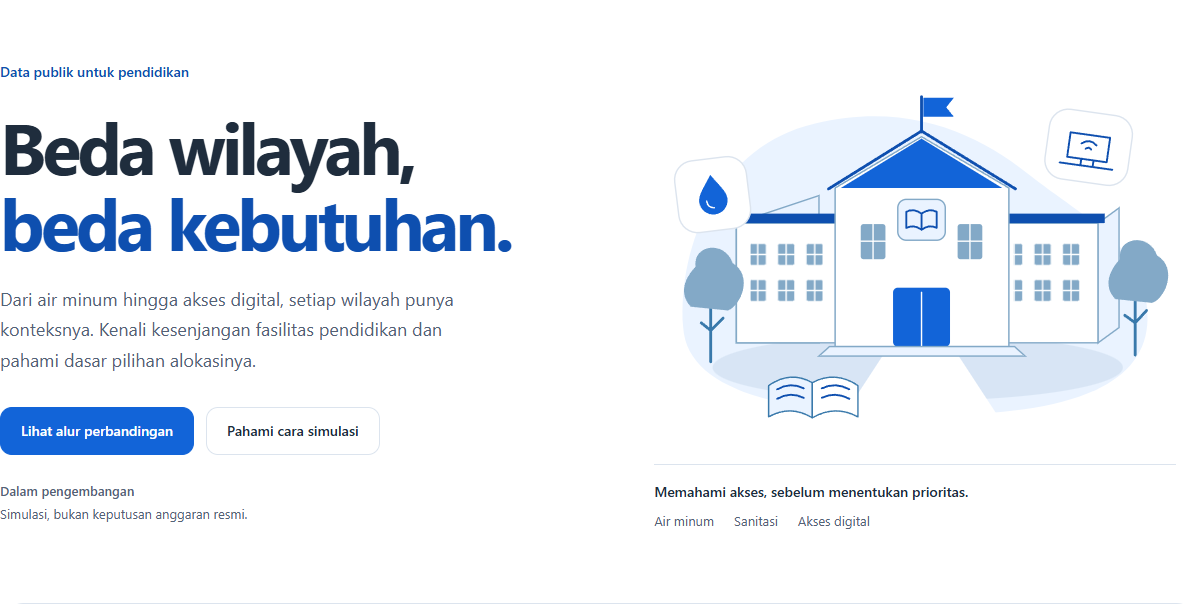
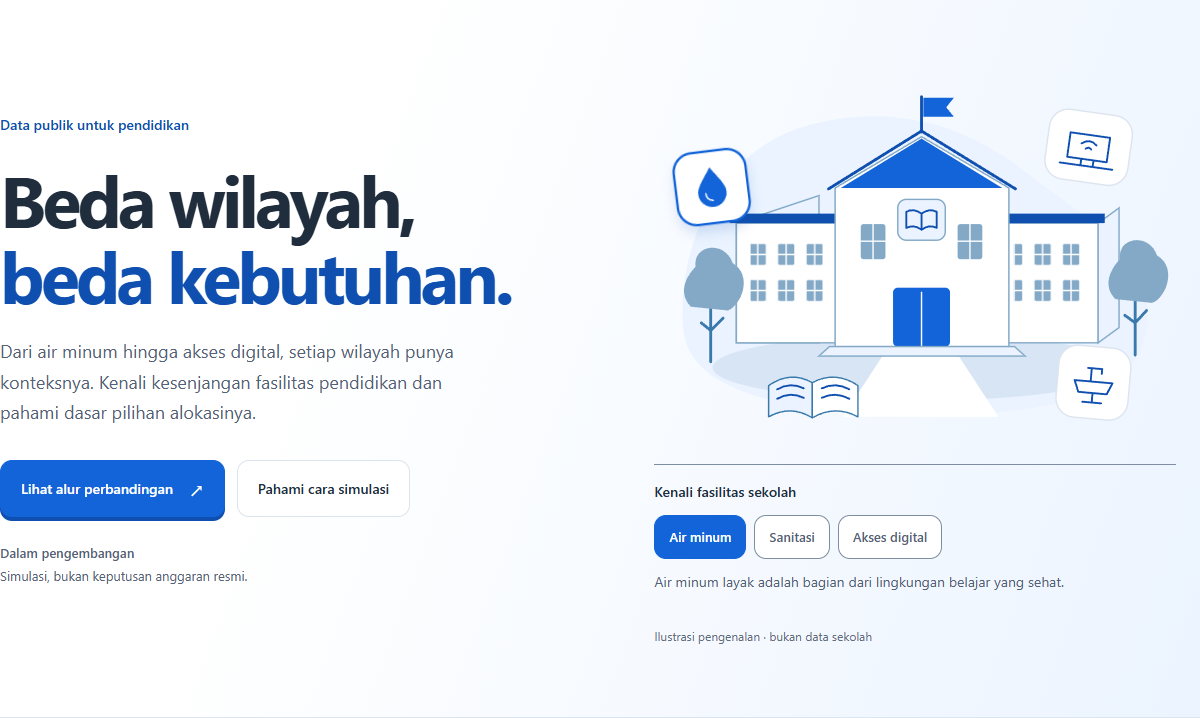
feat(web): add blue hero atmosphere and facility interaction

diff --git a/frontend/src/routes/+page.svelte b/frontend/src/routes/+page.svelte
@@ -4,6 +4,12 @@
   import EducationScene from '#lib/components/EducationScene.svelte';
 
   let view = $state<'access' | 'allocation'>('access');
+  let facility = $state<'water' | 'sanitation' | 'digital'>('water');
+  const heroFacilities = [
+    { id: 'water', label: 'Air minum', description: 'Air minum layak adalah bagian dari lingkungan belajar yang sehat.' },
+    { id: 'sanitation', label: 'Sanitasi', description: 'Sanitasi dasar mendukung kenyamanan dan kebersihan di sekolah.' },
+    { id: 'digital', label: 'Akses digital', description: 'Internet dan komputer membuka akses pada sumber belajar digital.' }
+  ] as const;
   const facilities = [
     { name: 'Sanitasi dasar', measure: 'Persentase sekolah dengan akses', note: 'Bandingkan pada tahun dan jenjang yang sama.' },
     { name: 'Air minum layak', measure: 'Persentase sekolah dengan akses', note: 'Periksa definisi akses dan cakupan wilayah.' },
@@ -29,22 +35,33 @@
   { label: 'Metode & batasan', href: '#metode' },
   { label: 'Tentang Equora', href: '/about' }
 ]}>
+  <div class="hero-backdrop">
   <section class="eq-container hero" aria-labelledby="hero-title">
     <div class="hero-copy">
       <p class="eq-kicker">Data publik untuk pendidikan</p>
       <h1 id="hero-title">Beda wilayah,<br /><span>beda kebutuhan.</span></h1>
       <p class="intro">Dari air minum hingga akses digital, setiap wilayah punya konteksnya. Kenali kesenjangan fasilitas pendidikan dan pahami dasar pilihan alokasinya.</p>
       <div class="actions">
-        <a class="eq-button eq-button-primary" href="#pratinjau">Lihat alur perbandingan</a>
+        <a class="eq-button eq-button-primary hero-primary" href="#pratinjau">Lihat alur perbandingan <span aria-hidden="true">↗</span></a>
         <a class="eq-button" href="#metode">Pahami cara simulasi</a>
       </div>
       <p class="hero-note"><span class="development-label">Dalam pengembangan</span><br />Simulasi, bukan keputusan anggaran resmi.</p>
     </div>
     <figure class="education-visual">
-      <div class="education-scene"><EducationScene /></div>
-      <figcaption><p>Memahami akses, sebelum menentukan prioritas.</p><div class="facility-topics"><span>Air minum</span><span>Sanitasi</span><span>Akses digital</span></div></figcaption>
+      <div class="education-scene"><EducationScene selected={facility} /></div>
+      <figcaption>
+        <p class="scene-label">Kenali fasilitas sekolah</p>
+        <div class="facility-topics" role="group" aria-label="Sorot fasilitas pada ilustrasi">
+          {#each heroFacilities as item}
+            <button aria-pressed={facility === item.id} aria-controls="facility-description" onclick={() => facility = item.id}>{item.label}</button>
+          {/each}
+        </div>
+        <p id="facility-description" class="facility-description" aria-live="polite">{heroFacilities.find((item) => item.id === facility)?.description}</p>
+        <p class="illustration-note">Ilustrasi pengenalan · bukan data sekolah</p>
+      </figcaption>
     </figure>
   </section>
+  </div>
 
   <section id="pratinjau" class="eq-container preview" aria-labelledby="preview-title">
     <div class="preview-header">
@@ -126,19 +143,30 @@
 </PublicShell>
 
 <style>
+  .hero-backdrop { position: relative; isolation: isolate; background: linear-gradient(110deg, var(--eq-surface) 30%, var(--eq-primary-tint) 100%); margin-bottom: 40px; }
+  .hero-backdrop::before { content: ''; position: absolute; inset: 0; z-index: -1; border-bottom: 1px solid var(--eq-border); border-radius: 0 0 80px 0; pointer-events: none; }
   .hero { display: grid; grid-template-columns: 1.05fr 1fr; align-items: center; gap: 32px; padding-block: 56px 72px; }
   .hero-copy > .eq-kicker { margin-bottom: 24px; color: var(--eq-primary-hover); }
   h1 { font-size: clamp(2.6rem, 5vw, 4.5rem); line-height: 1.06; letter-spacing: -0.055em; }
   h1 span { color: var(--eq-primary-hover); }
   .intro { max-width: 500px; margin-top: 24px; color: var(--eq-text-secondary); font-size: 18px; line-height: 1.7; }
   .actions { display: flex; flex-wrap: wrap; gap: 12px; margin-top: 32px; }
+  .hero-primary { box-shadow: 0 4px 0 var(--eq-primary-hover); gap: 16px; transition: transform 160ms ease, box-shadow 160ms ease; }
+  .hero-primary span { font-size: 20px; }
+  .hero-primary:active { transform: translateY(3px); box-shadow: 0 1px 0 var(--eq-primary-hover); }
   .hero-note { margin-top: 24px; font-size: 13px; line-height: 1.8; color: var(--eq-text-secondary); }
   .development-label { font-weight: 600; }
   .education-visual { min-width: 0; margin: 0; }
   .education-scene { width: 100%; }
-  figcaption { margin: 0 24px; padding-top: 16px; border-top: 1px solid var(--eq-border); }
+  figcaption { margin: 0 24px; padding-top: 16px; border-top: 1px solid var(--eq-control-border); }
   figcaption > p { font-size: 14px; font-weight: 600; color: var(--eq-text); }
-  .facility-topics { display: flex; flex-wrap: wrap; gap: 8px 20px; margin-top: 8px; font-size: 13px; color: var(--eq-text-secondary); }
+  .facility-topics { display: flex; flex-wrap: wrap; gap: 8px; margin-top: 12px; }
+  .facility-topics button { min-height: 44px; padding: 8px 14px; border: 1px solid var(--eq-control-border); border-radius: var(--eq-radius-sm); background: var(--eq-surface); color: var(--eq-text-secondary); font-size: 13px; font-weight: 600; }
+  .facility-topics button[aria-pressed='true'] { background: var(--eq-primary); color: white; border-color: var(--eq-primary); }
+  .facility-topics button:hover { border-color: var(--eq-primary); }
+  figcaption .facility-description { min-height: 48px; margin-top: 12px; color: var(--eq-text-secondary); font-size: 14px; font-weight: 400; }
+  figcaption .illustration-note { margin-top: 8px; font-size: 12px; color: var(--eq-text-muted); font-weight: 400; }
+  @media (prefers-reduced-motion: reduce) { .hero-primary:active { transform: none; } }
   dl { margin: 0; }
   dt { font-weight: 600; }
   dd { margin: 0; color: var(--eq-text-secondary); }
@@ -200,6 +228,7 @@
     ol { gap: 24px; }
   }
   @media (max-width: 767px) {
+    .hero-backdrop { background: linear-gradient(180deg, var(--eq-surface) 35%, var(--eq-primary-tint) 100%); margin-bottom: 32px; }
     .hero { grid-template-columns: 1fr; gap: 32px; padding-top: 24px; }
     h1 { max-width: 620px; }
     .education-visual { width: min(100%, 520px); justify-self: center; }

diff --git a/frontend/src/lib/components/EducationScene.svelte b/frontend/src/lib/components/EducationScene.svelte
@@ -1,4 +1,8 @@
-<svg viewBox="0 0 600 430" role="img" aria-label="Ilustrasi lingkungan sekolah dengan fasilitas air dan akses digital, bukan data sekolah nyata">
+<script lang="ts">
+  let { selected = 'water' }: { selected?: 'water' | 'sanitation' | 'digital' } = $props();
+</script>
+
+<svg viewBox="0 0 600 430" role="img" aria-label="Ilustrasi lingkungan sekolah dengan fasilitas air, sanitasi, dan akses digital, bukan data sekolah nyata">
   <defs>
     <pattern id="eq-school-windows" width="30" height="38" patternUnits="userSpaceOnUse">
       <rect x="6" y="8" width="17" height="22" rx="2" class="window" />
@@ -32,14 +36,24 @@
   <path d="M64 264C48 247 63 228 69 222C66 198 100 194 108 218C130 231 117 263 103 268Z" class="leaves" />
   <path d="M511 256C495 239 510 220 516 214C513 190 547 186 555 210C577 223 564 255 550 260Z" class="leaves" />
   <g transform="translate(49 108) rotate(-7 38 38)">
+    <g class="facility-icon" class:selected={selected === 'water'}>
     <rect width="76" height="76" rx="20" class="resource-card" />
     <path d="M38 17C31 28 23 36 23 44A15 15 0 0 0 53 44C53 36 45 28 38 17Z" class="drop" />
     <path d="M31 44Q31 51 38 52" class="drop-detail" />
+    </g>
   </g>
   <g transform="translate(439 59) rotate(8 43 37)">
+    <g class="facility-icon" class:selected={selected === 'digital'}>
     <rect width="88" height="74" rx="20" class="resource-card" />
     <path d="M23 40V24H65V50H23V40M16 57H72M38 50V57M51 50V57" class="computer" />
     <path d="M36 34Q44 27 52 34M41 39Q44 36 47 39" class="signal" />
+    </g>
+  </g>
+  <g transform="translate(450 306) rotate(5 38 38)">
+    <g class="facility-icon" class:selected={selected === 'sanitation'}>
+      <rect width="76" height="76" rx="20" class="resource-card" />
+      <path d="M18 37H58L53 49H23ZM38 49V59M28 59H48M35 37V23H46V28M31 23H40" class="computer" />
+    </g>
   </g>
   <path d="M146 347Q169 331 192 344L192 381Q169 367 146 380Z" class="open-book-left" />
   <path d="M192 344Q216 331 240 347V380Q216 367 192 381Z" class="open-book-right" />
@@ -60,6 +74,10 @@
   .window-line, .door-line, .drop-detail { fill: none; stroke: var(--eq-surface); stroke-width: 1.5; stroke-linecap: round; }
   .tree { fill: none; stroke: var(--eq-chart-blue); stroke-width: 3; stroke-linecap: round; }
   .resource-card { fill: var(--eq-surface); stroke: var(--eq-border); stroke-width: 1.5; }
+  .facility-icon { transform-box: fill-box; transform-origin: center; transition: transform 220ms ease, filter 220ms ease; }
+  .selected { transform: translateY(-8px); filter: drop-shadow(0 8px 6px rgb(14 79 175 / 14%)); }
+  .selected .resource-card { stroke: var(--eq-primary); stroke-width: 2.5; }
+  @media (prefers-reduced-motion: reduce) { .facility-icon { transition: none; } .selected { transform: none; } }
   .computer, .signal, .book, .book-lines { fill: none; stroke: var(--eq-primary-hover); stroke-width: 2; stroke-linecap: round; stroke-linejoin: round; }
   .open-book-left, .open-book-right { stroke: var(--eq-chart-blue); stroke-width: 1.5; stroke-linejoin: round; }
 </style>

diff --git a/frontend/tests/landing.spec.ts b/frontend/tests/landing.spec.ts
@@ -12,6 +12,21 @@ for (const width of [360, 390, 768, 1024, 1440]) {
     await expect(page.getByText('Explorer belum tersedia.')).toBeVisible();
     expect(await page.evaluate(() => document.documentElement.scrollWidth <= innerWidth)).toBe(true);
 
+    const facilities = page.getByRole('group', { name: 'Sorot fasilitas pada ilustrasi' });
+    await facilities.getByRole('button', { name: 'Sanitasi', exact: true }).click();
+    await expect(page.locator('#facility-description')).toContainText('Sanitasi dasar');
+    await facilities.getByRole('button', { name: 'Akses digital', exact: true }).focus();
+    await page.keyboard.press('Enter');
+    await expect(facilities.getByRole('button', { name: 'Akses digital', exact: true })).toHaveAttribute('aria-pressed', 'true');
+    await expect(page.locator('#facility-description')).toContainText('Internet dan komputer');
+    await expect(page.locator('.education-scene .selected')).toHaveCount(1);
+    await page.emulateMedia({ reducedMotion: 'reduce' });
+    await expect(page.locator('.education-scene .selected')).toHaveCSS('transform', 'none');
+    await facilities.getByRole('button', { name: 'Air minum', exact: true }).click();
+    await expect(page.locator('#facility-description')).toContainText('Air minum layak');
+    await page.emulateMedia({ reducedMotion: 'no-preference' });
+    await page.goto('/');
+
     await page.keyboard.press('Tab');
     await expect(page.getByRole('link', { name: 'Lewati ke konten utama' })).toBeFocused();
     await page.keyboard.press('Enter');

diff --git a/docs/landing-validation.md b/docs/landing-validation.md
@@ -10,7 +10,9 @@ Tema memakai panel putih, canvas sangat muda, biru utama, serta satu bingkai wor
 
 Penyempurnaan hero pada `feat/landing-hero`: headline **Beda wilayah, beda kebutuhan.**, komposisi teks/ilustrasi sekolah yang terbuka, detail buku/air/perangkat, serta caption fasilitas HTML. Kartu status/daftar metadata di sisi kanan dihapus. Status pengembangan dan batas simulasi tetap terlihat di dekat CTA. Palet v1.2 dan perilaku interaksi tetap sama.
 
-Hero terbaru telah diperiksa melalui build/type-check, 2 unit tests dan 6 Playwright tests yang lulus pada lima viewport. Detail tampilan tersedia di [hero desktop](evidence/landing/hero-desktop.png) dan [hero mobile](evidence/landing/hero-mobile.png); keduanya ditinjau secara visual. Gate Hard/Purpose/Liveliness/Craftsmanship tetap PASS: tidak ada metrik rekaan, caption tetap HTML terbaca, dan ilustrasi noninteraktif tidak menyamarkan tombol.
+Revisi lanjutan `feat/hero-atmosphere` menambahkan latar putih menuju tint biru, CTA dengan respons tekan, dan pilihan fasilitas yang menyorot ikon air/sanitasi/digital sekaligus mengganti penjelasan HTML. Semua pilihan dapat dioperasikan dengan keyboard dan memiliki `aria-pressed`; deskripsi memakai live region. Tidak ada hasil data atau analisis di dalam interaksi ini. Gerak seleksi hanya berlangsung saat pilihan berubah, tanpa loop, dan reduced motion meniadakan perpindahan.
+
+Hero terbaru telah diperiksa melalui build/type-check (0 errors/warnings), 2 unit tests dan 6 Playwright tests yang lulus pada lima viewport. Uji browser mencakup pilihan fasilitas dengan klik dan keyboard, caption, satu ikon terpilih, serta transform none pada reduced motion. Detail tampilan tersedia di [hero desktop](evidence/landing/hero-desktop.png) dan [hero mobile](evidence/landing/hero-mobile.png); keduanya ditinjau secara visual. Gate Hard/Purpose/Liveliness/Craftsmanship tetap PASS: tidak ada metrik rekaan, caption tetap HTML terbaca, dan kontrol fasilitas terpisah dari SVG.
 
 CTA menuju anchor penjelasan yang tersedia. Tombol perbandingan/simulasi mengganti penjelasan, bukan menjalankan solver. Explorer/studio, release data, dan metode final ditandai belum tersedia. Tidak ada angka indikator, hasil optimasi, peta, testimoni atau dampak rekaan. Empat URL sumber mengacu pada calon sumber di BRD; halaman penerbit berhasil dibuka saat verifikasi, tetapi audit file/lisensi terpisah.
 
@@ -28,9 +30,9 @@ CTA menuju anchor penjelasan yang tersedia. Tombol perbandingan/simulasi menggan
 
 PASS Hard Gate: tidak ada klaim/statistik rekaan, overflow atau tautan produk palsu; interaksi dan keyboard diuji pada lima viewport. Loading/error jaringan tidak berlaku karena halaman tidak memuat API; keadaan kosong dan ketersediaan dijelaskan secara statis. Ilustrasi mengikuti konteks pendidikan yang disetujui pengguna.
 
-PASS Purpose Gate: warna dan font mengikuti DESIGN v1.2; biru menandai tindakan/selection, panel membedakan alur dari metadata. Panah hanya menunjukkan aliran data atau tautan sumber eksternal. Ilustrasi sekolah mendukung konteks fasilitas pendidikan. Bayangan tipis hanya membedakan bingkai workspace dari canvas, tanpa glass atau gradient.
+PASS Purpose Gate: warna dan font mengikuti DESIGN v1.2; biru menandai tindakan/selection, panel membedakan alur dari metadata. Panah CTA menunjukkan navigasi ke penjelasan. Ilustrasi sekolah mendukung konteks fasilitas pendidikan. Gradien hero mengarahkan dari ruang baca putih ke lingkungan sekolah biru. Bayangan hanya membedakan workspace dan ikon fasilitas terpilih; tidak ada glass atau glow.
 
-PASS Liveliness: ENERGY 2 / RHYTHM 2 / MOTION 1; headline biru, ilustrasi pendidikan, panel penjelasan, alur linear dan sumber berbentuk daftar memberi identitas dan ritme berbeda. Motif data → prioritas → skenario konsisten; fokus utama headline dan satu CTA utama. Tidak ada animasi dekoratif; reduced-motion dipertahankan.
+PASS Liveliness: ENERGY 2 / RHYTHM 2 / MOTION 1; headline biru, ilustrasi pendidikan, panel penjelasan, alur linear dan sumber berbentuk daftar memberi identitas dan ritme berbeda. Motif data → prioritas → skenario konsisten; fokus utama headline dan satu CTA utama. Transisi hanya memberi umpan balik seleksi/tekan; tidak ada animasi berulang. Reduced motion diuji.
 
 PASS Craftsmanship: screenshot ditinjau, interaksi diuji, status fitur jujur. Kontras teks putih pada biru utama **5.47:1**; secondary pada subpanel **5.84:1**; muted pada canvas **4.84:1**; selected text pada tint **6.81:1**. Control border **3.38:1** pada putih memenuhi batas nonteks 3:1 dan tidak dipakai sebagai warna teks. Border panel yang lebih pucat hanya dekoratif.
 

diff --git a/docs/DESIGN_Equora.md b/docs/DESIGN_Equora.md
@@ -176,6 +176,8 @@ Navigation item terdiri dari ikon, label, active background putih/hampir putih d
 
 **Interactions:** CTA navigate; product preview no fake live metrics; no misleading logos/testimonials. Hero motion optional and respects `prefers-reduced-motion`.
 
+**Latar dan respons hero:** gradien putih menuju tint biru dibatasi pada pengantar untuk memisahkan area baca dari lingkungan ilustrasi. Tidak ada glow, grid atau glass. Pilihan fasilitas Air minum, Sanitasi dan Akses digital menyorot ikon terkait dan mengganti penjelasan HTML; ini pengenalan fasilitas, bukan dataset interaktif. Tombol memakai `aria-pressed`, dapat dioperasikan dengan keyboard, dan deskripsi diumumkan melalui live region. Transisi sorotan 220ms dan respons tekan CTA hanya dipicu tindakan pengguna, tanpa animasi berulang. Reduced motion mempertahankan outline seleksi tanpa perpindahan ikon/tombol.
+
 **Hero publik saat ini:** komposisi teks dan ilustrasi terbuka, bukan kartu status berisi daftar metadata. Headline dua baris menonjolkan kebutuhan antardaerah, dengan ilustrasi kampus/sekolah SVG di sebelahnya. Buku, air dan perangkat digital hanya memberi konteks fasilitas, bukan bukti data sekolah nyata. Metadata dan rincian alur tetap di section berikutnya. Pada mobile ilustrasi ditumpuk setelah teks/tindakan, tanpa label kecil tertanam di SVG. CTA menuju anchor penjelasan yang tersedia sampai explorer/studio siap; jangan membuat link aktif ke route yang belum ada.
 
 ### 6.2 `/explore` — Regional Equity Explorer (P0)

diff --git a/docs/ui-foundation.md b/docs/ui-foundation.md
@@ -15,6 +15,8 @@ ENERGY 2 / RHYTHM 2 / MOTION 1. Identitas Clean Education Blue: canvas abu-abu s
 
 Hero memakai headline dua baris dan ilustrasi lingkungan sekolah yang terbuka, menggantikan kartu metadata di sisi kanan. Buku/air/perangkat memperjelas konteks fasilitas; caption HTML tetap terbaca pada mobile dan status pengembangan berada di dekat CTA. Alur dan metadata rinci tetap berada di bawah hero agar pengantar lebih mudah dipahami.
 
+Penyempurnaan `feat/hero-atmosphere` memberi latar putih menuju tint biru hanya pada hero: area baca tetap terang, sisi ilustrasi menjadi lingkungan sekolah yang lebih terasa. Ini pemisah hierarki, tanpa glow, glass atau pola grid. Pilihan Air minum/Sanitasi/Akses digital adalah tombol nyata dengan `aria-pressed`, caption live dan sorotan ikon terkait; tidak mengubah data atau menjalankan analisis. Ikon terpilih terangkat 8px selama transisi 220ms, tanpa loop. Reduced motion meniadakan perpindahan, menyisakan outline seleksi. CTA utama memiliki tepi bawah biru gelap untuk respons tekan, tanpa menggeser layout. ENERGY 2 / RHYTHM 2 / MOTION 1 tetap berlaku.
+
 Shell dipasang oleh halaman publik yang membutuhkannya. Endpoint `/health` dan `/api/health` tetap terpisah dari UI. Tidak ada sidebar dashboard atau navigasi admin sebelum route serta kontrol aksesnya tersedia.
 
 ## Pemisahan pekerjaan
